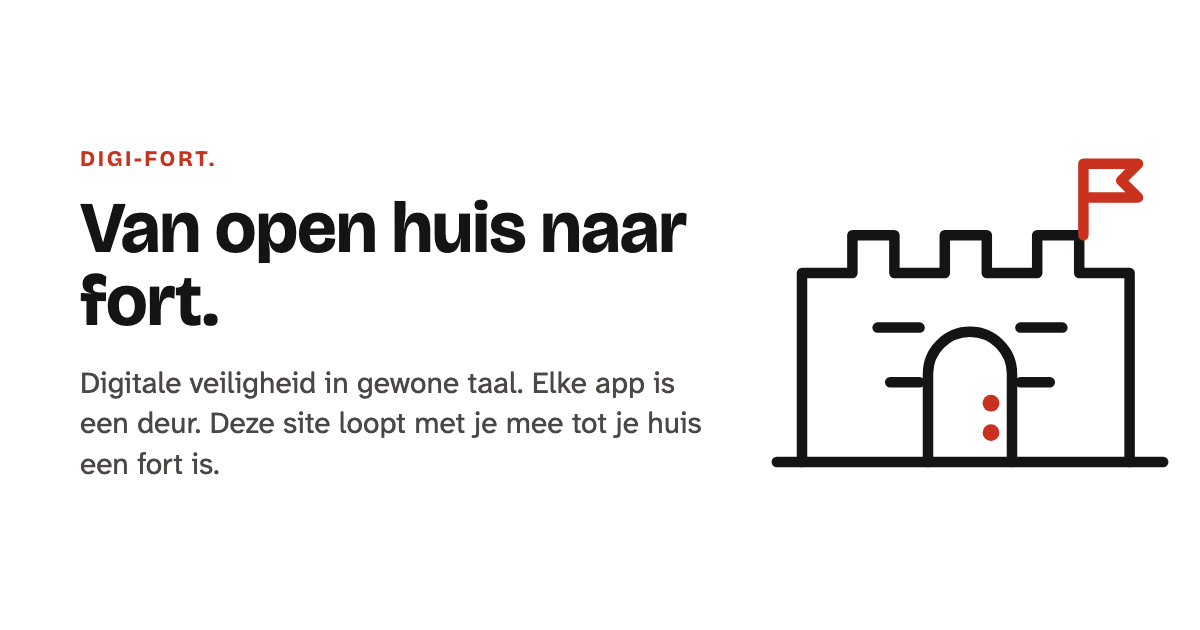
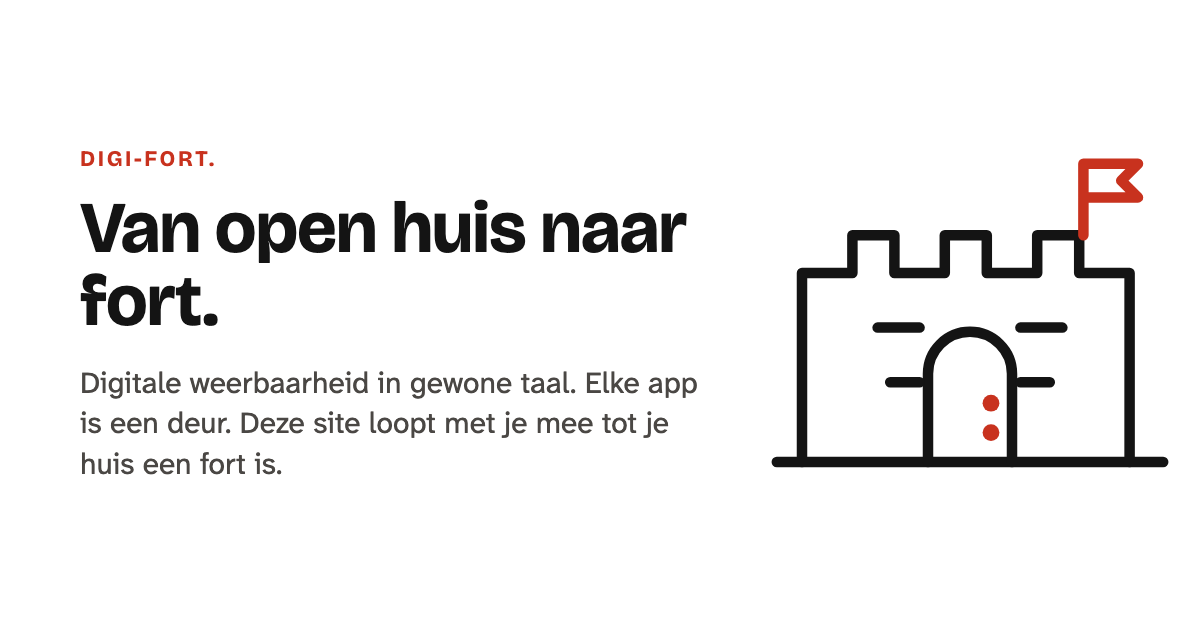
feat: de site heet het digitale weerbaarheid in plaats van digitale veiligheid
Slogan, voorpagina, huischeck, woordenboek, over, kleine lettertjes en
het deelplaatje. Waar een bron wordt aangehaald (Alert Online, NCSC)
blijft het woord van de bron staan.

Changed region(s): [[0.0617, 0.573, 0.5858, 0.6937], [0.0617, 0.7238, 0.2467, 0.754]]

diff --git a/src/lib/site.js b/src/lib/site.js
@@ -2,7 +2,7 @@
 export const SITE = {
   naam: 'digi-fort.',
   url: 'https://digi-fort.nl', // gelijk aan `site` in astro.config.mjs; eenheid.spec.js bewaakt dat
-  slogan: 'Digitale veiligheid in gewone taal, zonder bangmakerij en zonder reclame.',
+  slogan: 'Digitale weerbaarheid in gewone taal, zonder bangmakerij en zonder reclame.',
   laatstNagelopen: '2026-09-23',
   contact: 'x4b5.clause500@8shield.net', // SimpleLogin-alias, stuurt door naar Proton
 };

diff --git a/src/lib/gegevens.js b/src/lib/gegevens.js
@@ -69,7 +69,7 @@ export function begrippenGegevens() {
     '@context': 'https://schema.org',
     '@type': 'DefinedTermSet',
     name: `Woordenboek van ${SITE.naam}`,
-    description: 'Vaktermen over digitale veiligheid, elk in één zin gewone taal uitgelegd.',
+    description: 'Vaktermen over digitale weerbaarheid, elk in één zin gewone taal uitgelegd.',
     inLanguage: TAAL,
     url,
     hasDefinedTerm: WOORDEN.map((w) => ({
